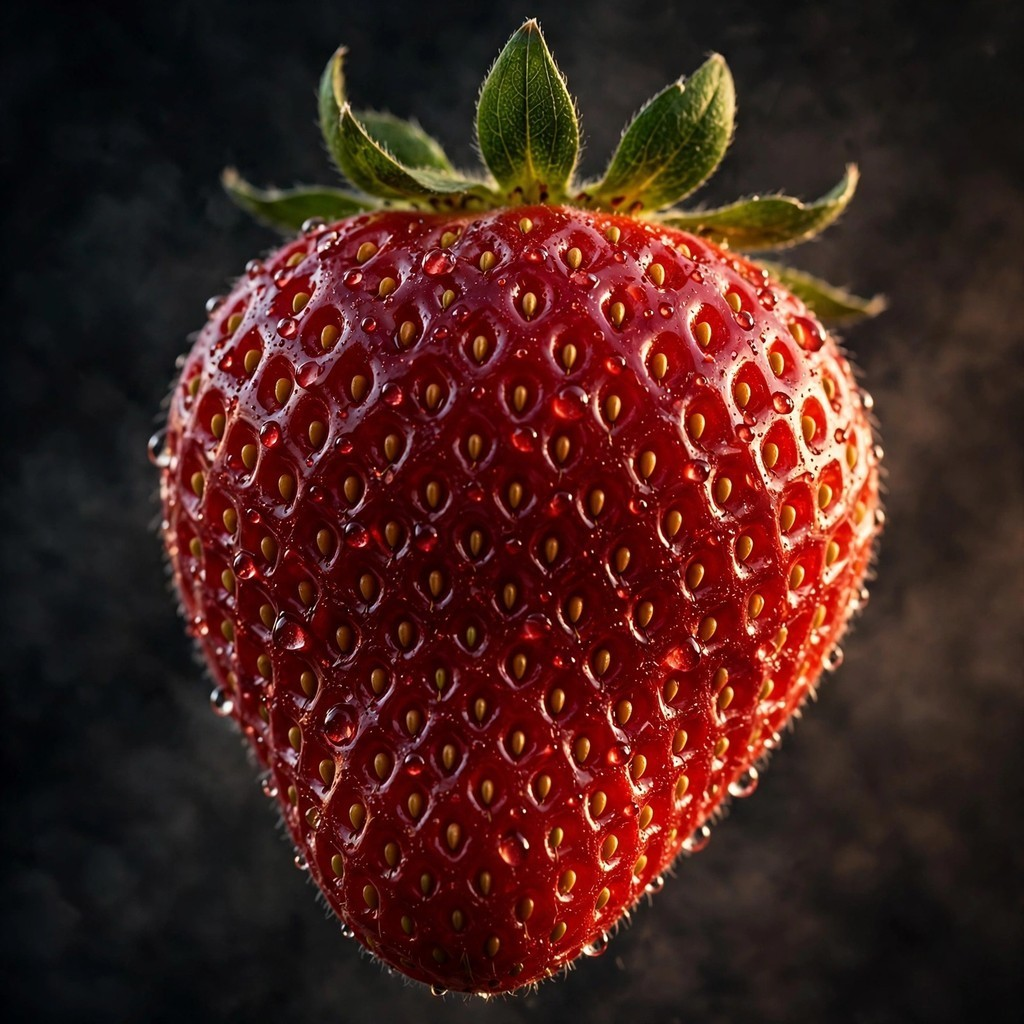
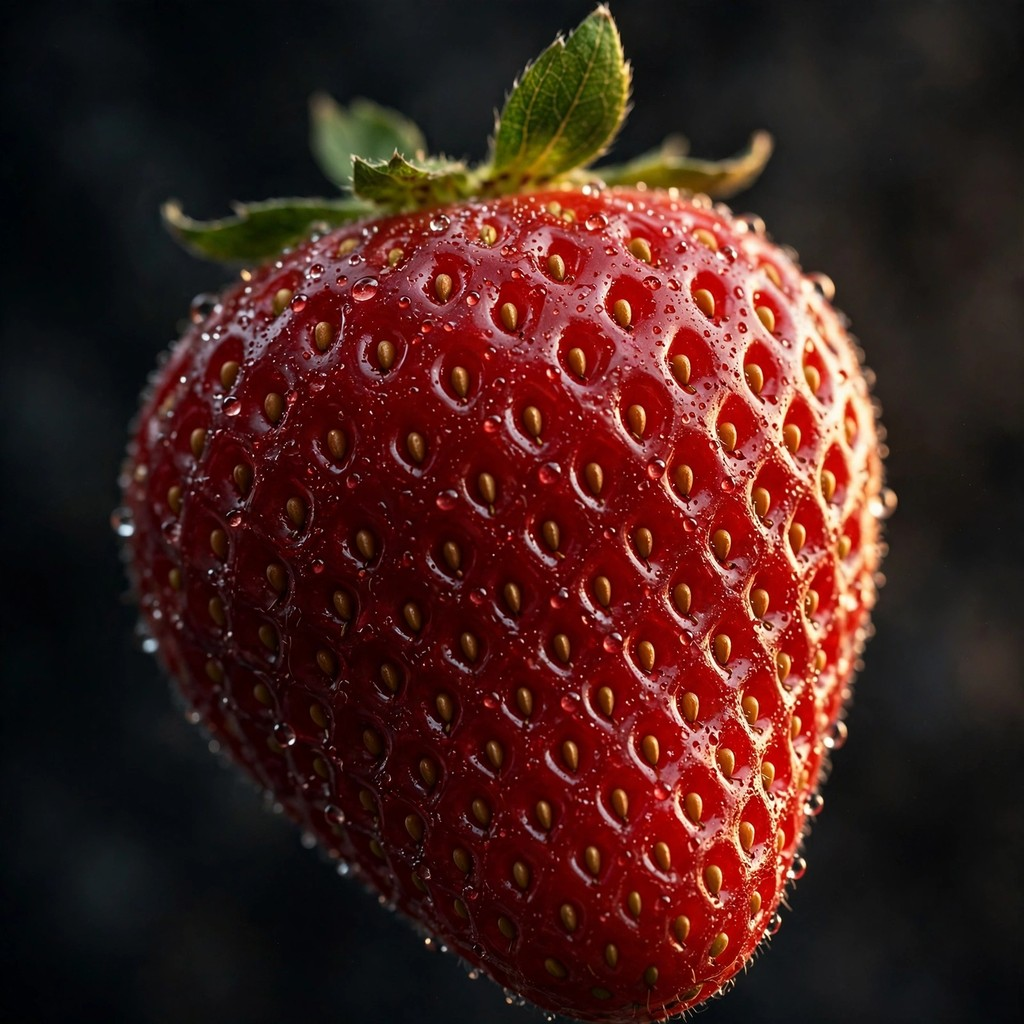
Picture entry: one ripe strawberry, macro photo

diff --git a/main.py b/main.py
@@ -2,31 +2,22 @@
 
 A single perfect ripe strawberry, macro-photographed, glossy with dew,
 filling the frame against a dark background. This program copies the
-entry image (entry.jpg, sitting next to this script) into the output
+entry picture (entry.jpg, sitting next to this file) into the output
 directory as entry.png on every run.
 """
 
 import os
 import shutil
-import sys
 
 
 def main():
     output_dir = os.environ.get("MAKEFUN_OUTPUT_DIR", "/output")
     os.makedirs(output_dir, exist_ok=True)
-
     here = os.path.dirname(os.path.abspath(__file__))
     source = os.path.join(here, "entry.jpg")
     destination = os.path.join(output_dir, "entry.png")
-
-    if not os.path.isfile(source):
-        print(f"entry image not found: {source}", file=sys.stderr)
-        sys.exit(1)
-
-    # The output is always named entry.png, regardless of the source name,
-    # so the judge always finds the picture at the same path.
+    # The picture is one ingredient only: one strawberry, nothing else.
     shutil.copyfile(source, destination)
-    print(f"Copied {source} -> {destination}")
 
 
 if __name__ == "__main__":

diff --git a/README.md b/README.md
@@ -4,14 +4,12 @@
 [![rank](https://make.fun/badge/the-picture-that-tastes-of-one-20261122-2047/saidgank/makefun-picture-one-entry/rank.svg)](https://make.fun/bounty/the-picture-that-tastes-of-one-20261122-2047/leaderboard)
 [![reward](https://make.fun/badge/the-picture-that-tastes-of-one-20261122-2047/saidgank/makefun-picture-one-entry/reward.svg)](https://make.fun/bounty/the-picture-that-tastes-of-one-20261122-2047)
 
-One picture of food that tastes of one ingredient: a single perfect ripe strawberry, macro-photographed, glossy with dew, filling the frame against a dark background. Nothing else is in the picture — one ingredient, one picture. Running `main.py` copies `entry.jpg` to the output directory as `entry.png` on every run.
+One picture of food that tastes of one ingredient: a single perfect ripe strawberry, macro-photographed, glossy with dew, filling the frame against a dark background. No other ingredient, no plate, no hands — just the one strawberry. `main.py` copies `entry.jpg` to the output directory as `entry.png` on every run.
 
 ## Run it
 
-```bash
+```sh
 MAKEFUN_OUTPUT_DIR=out python3 main.py
 ```
 
-This writes `out/entry.png`, a copy of the strawberry photograph.
-
-Built for make.fun — [make.fun](https://make.fun/?ref=kvcj2dy8)
+[make.fun](https://make.fun/?ref=kvcj2dy8)
